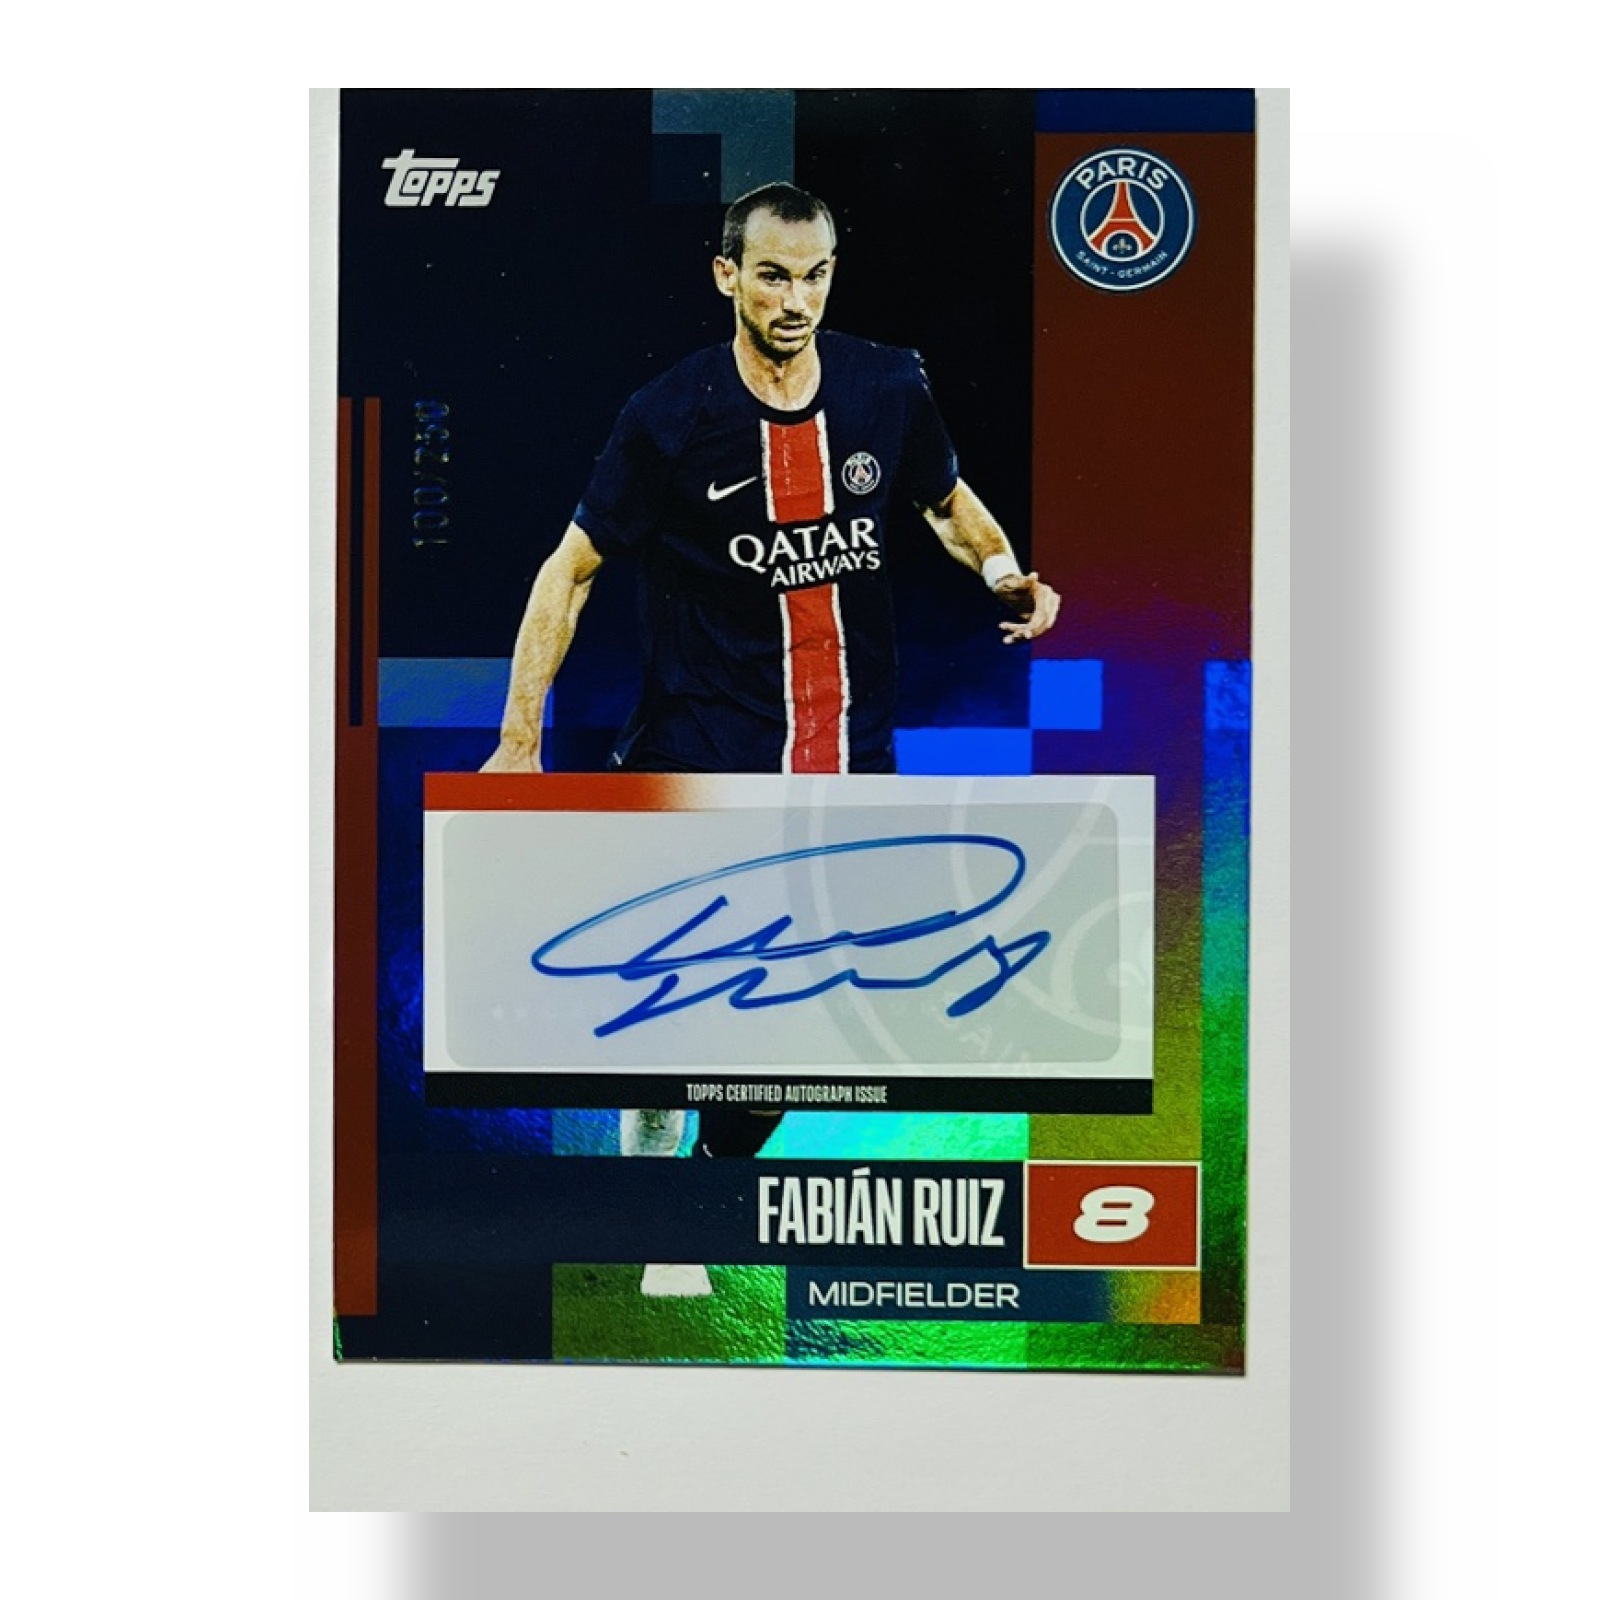
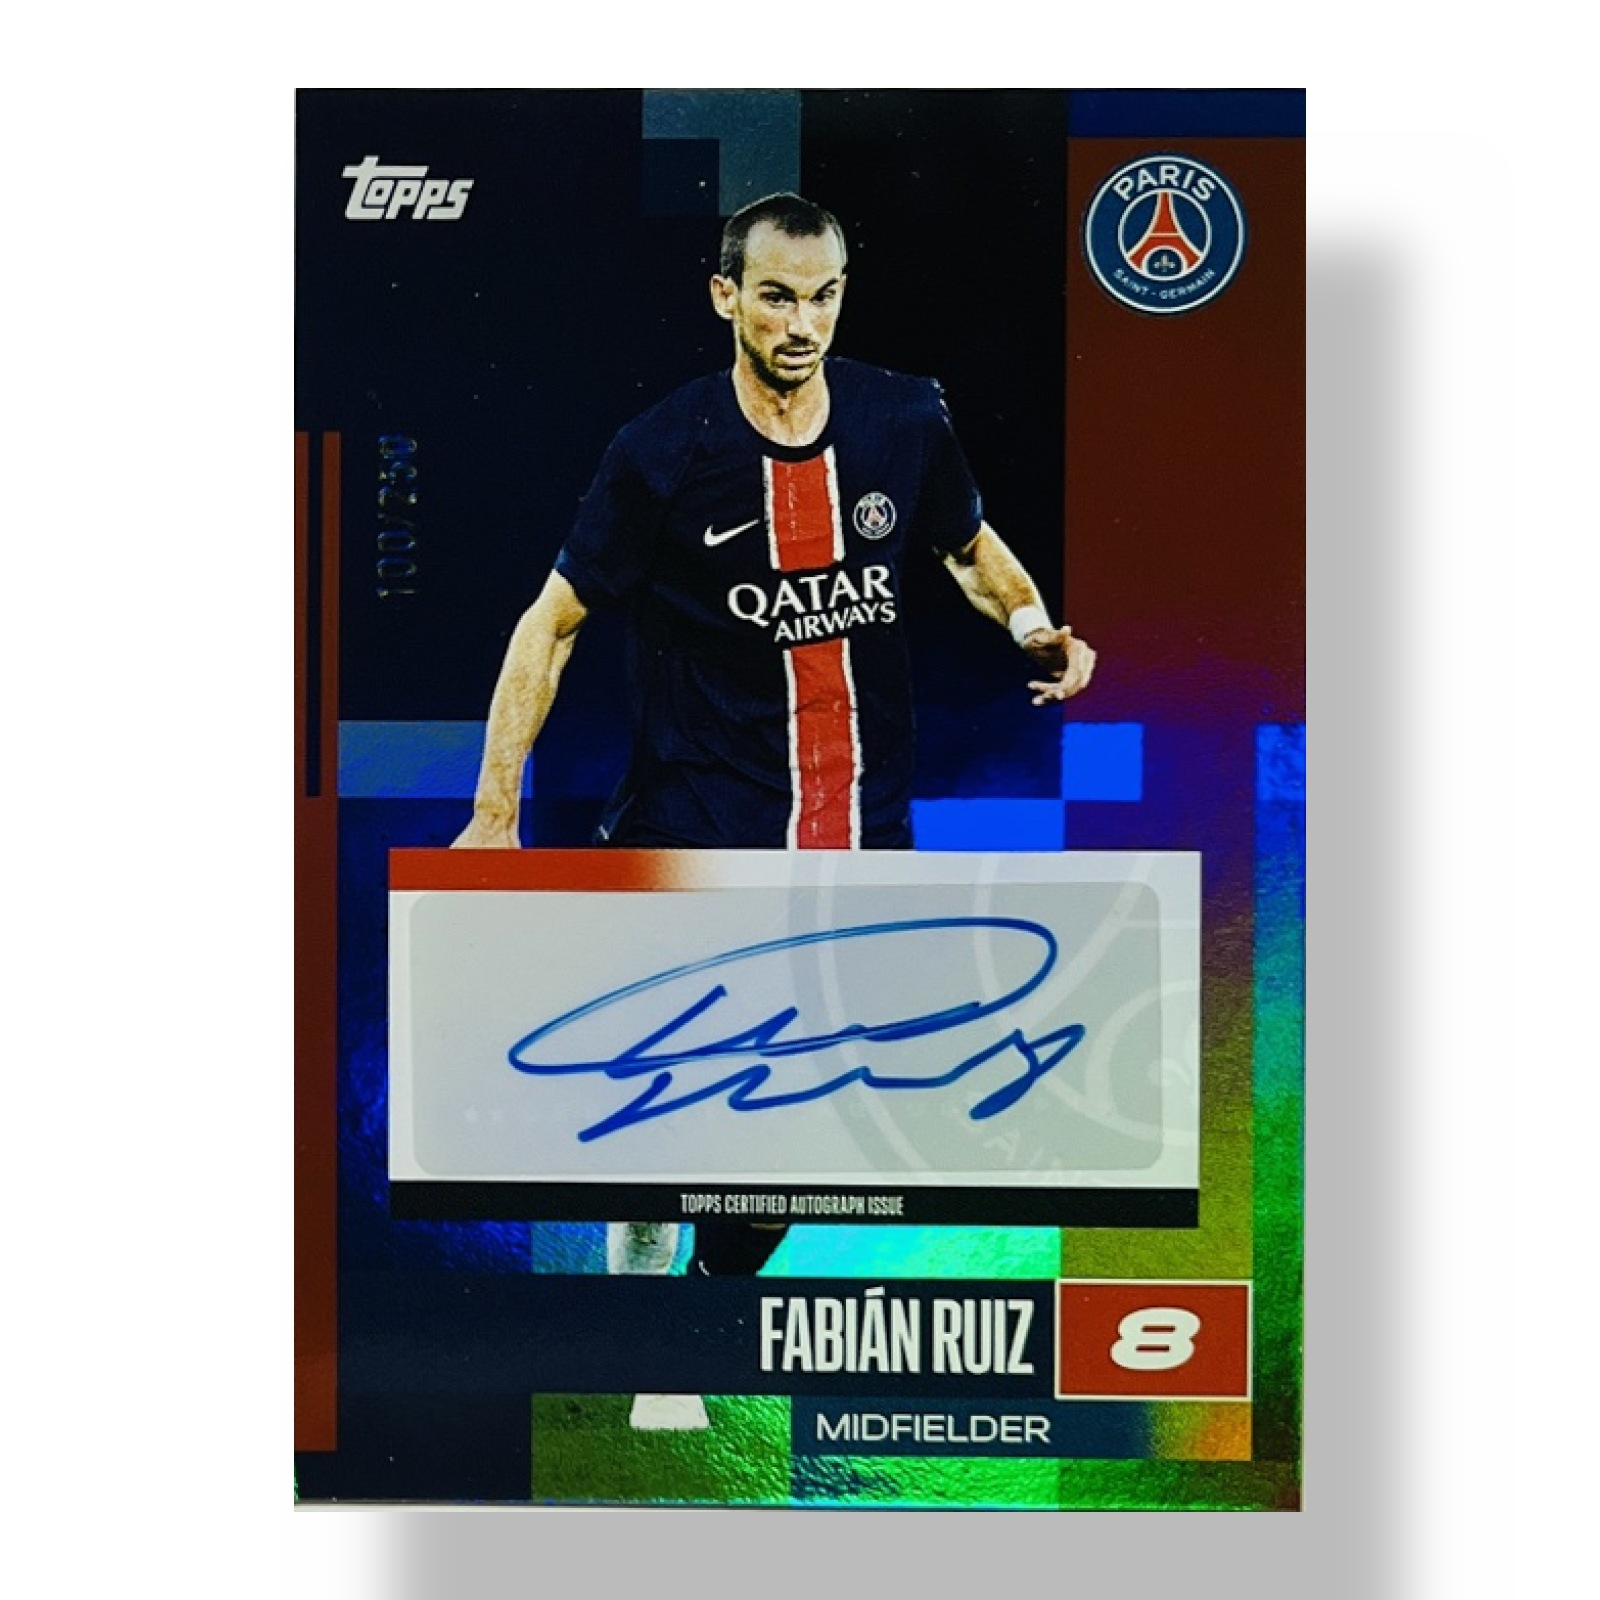
Fotos Ruiz 005/009 ohne grauen Randbalken; cardshots: trim_bars
Claude-Session: https://claude.ai/code/session_014fNZCqC4V5CfawKSuJMctq

diff --git a/tools/cardshots.py b/tools/cardshots.py
@@ -66,6 +66,30 @@ def warp(img,rect):
     dst=np.array([[0,0],[W-1,0],[W-1,H-1],[0,H-1]],np.float32)
     M=cv2.getPerspectiveTransform(np.array([tl,tr,br,bl],np.float32),dst)
     return cv2.warpPerspective(img,M,(W,H),flags=cv2.INTER_CUBIC)
+def trim_bars(card,maxfrac=0.12):
+    """Entfernt graue/helle Randbalken (Papier/Schatten ausserhalb der Karte) an jeder Seite.
+    Balken = aeussere Zeilen/Spalten, die gleichmaessig hellgrau+unbunt sind (Grau 150..228, Saettigung<35,
+    geringe Streuung) UND deutlich (>18 Graustufen) von der Zeile direkt dahinter abweichen.
+    Gibt (card, {seite:px}) zurueck."""
+    g=cv2.cvtColor(card,cv2.COLOR_BGR2GRAY).astype(np.float32)
+    sa=cv2.cvtColor(card,cv2.COLOR_BGR2HSV)[:,:,1].astype(np.float32)
+    H,W=g.shape;cut={}
+    def scan(gl,sl,n):
+        # gl/sl: 2D-Arrays so gedreht, dass die aeussere Kante unten liegt; n=max Tiefe
+        k=0
+        for i in range(1,n):
+            row=gl[-i,int(gl.shape[1]*.2):int(gl.shape[1]*.8)];sr=sl[-i,int(gl.shape[1]*.2):int(gl.shape[1]*.8)]
+            if 150<=np.median(row)<=228 and np.median(sr)<35 and row.std()<14: k=i
+            else: break
+        if k<6: return 0
+        inner=np.median(gl[-k-16:-k-8,int(gl.shape[1]*.2):int(gl.shape[1]*.8)]);bar=np.median(gl[-k:,int(gl.shape[1]*.2):int(gl.shape[1]*.8)])
+        return k if abs(inner-bar)>18 else 0
+    cut['bottom']=scan(g,sa,int(H*maxfrac))
+    cut['top']=scan(g[::-1],sa[::-1],int(H*maxfrac))
+    cut['right']=scan(g.T,sa.T,int(W*maxfrac))
+    cut['left']=scan(g.T[::-1],sa.T[::-1],int(W*maxfrac))
+    y0,y1,x0,x1=cut['top'],H-cut['bottom'],cut['left'],W-cut['right']
+    return card[y0:y1,x0:x1],cut
 def compose(card,frac=0.89):
     """Referenz des Nutzers (Okt 2026): Karte 89% der Hoehe, exakt mittig, weisser Hintergrund,
     Schatten nur rechts/unten: Versatz (97,155) px, sigma 28, Staerke 0.265 (Grau ~188), vom Bildrand beschnitten."""
@@ -115,6 +139,9 @@ if __name__=="__main__":
             card=card if card is not None else c
         if card is None: print('WARN keine Karte gefunden');sys.exit(3)
         if not (.66<asp(card)<.80): print('WARN Zuschnitt verdaechtig (Seitenverhaeltnis %.2f), Ergebnis pruefen, ggf. --rect'%asp(card))
+    if '--no-trim' not in sys.argv:
+        card,cut=trim_bars(card)
+        if any(cut.values()): print('TRIM Randbalken entfernt:',{k:v for k,v in cut.items() if v})
     if card.shape[1]>card.shape[0]:
         card=cv2.rotate(card,cv2.ROTATE_90_CLOCKWISE) if False else card  # Querformat bleibt
     # Hochformat-Karten: Ausgabe immer in 'aufrechter' Lage der Aufnahme
